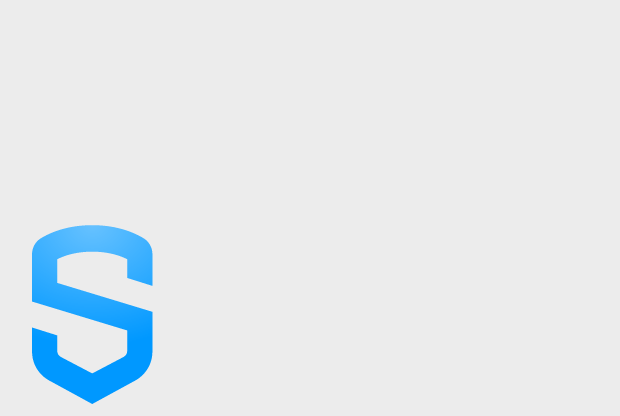
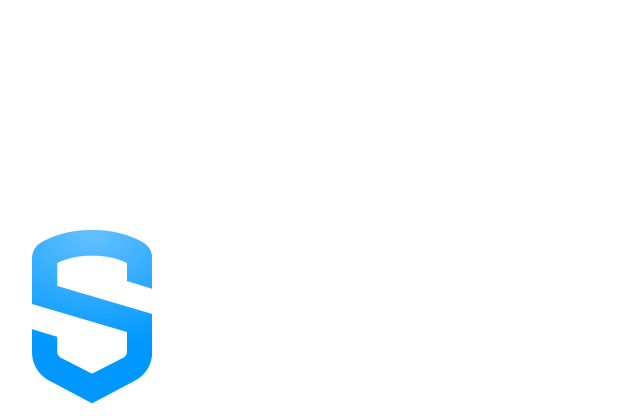
SDA-2016: fix simplified installer issues
- update the background image on macOS installer to support dark mode
- fix issues with saving window position on welcome screen

diff --git a/src/app/window-handler.ts b/src/app/window-handler.ts
@@ -83,6 +83,7 @@ export class WindowHandler {
     public isCustomTitleBar: boolean;
     public isWebPageLoading: boolean = true;
     public screenShareIndicatorFrameUtil: string;
+    public shouldShowWelcomeScreen: boolean = false;
 
     private readonly contextIsolation: boolean;
     private readonly backgroundThrottling: boolean;
@@ -93,7 +94,6 @@ export class WindowHandler {
     // Window reference
     private readonly windows: object;
 
-    private shouldShowWelcomeScreen: boolean = false;
     private loadFailError: string | undefined;
     private mainWindow: ICustomBrowserWindow | null = null;
     private aboutAppWindow: Electron.BrowserWindow | null = null;
@@ -164,7 +164,6 @@ export class WindowHandler {
      */
     public async createApplication() {
 
-        await this.updateVersionInfo();
         this.spellchecker = new SpellChecker();
         logger.info(`window-handler: initialized spellchecker module with locale ${this.spellchecker.locale}`);
 
@@ -184,6 +183,22 @@ export class WindowHandler {
             this.windowOpts.resizable = false;
             this.windowOpts.maximizable = false;
             this.windowOpts.fullscreenable = false;
+
+            if (this.config.mainWinPos && this.config.mainWinPos.height) {
+                this.config.mainWinPos.height = DEFAULT_HEIGHT;
+            }
+
+            if (this.config.mainWinPos && this.config.mainWinPos.width) {
+                this.config.mainWinPos.width = DEFAULT_WIDTH;
+            }
+
+            if (this.config.mainWinPos && this.config.mainWinPos.x) {
+                this.config.mainWinPos.x = undefined;
+            }
+
+            if (this.config.mainWinPos && this.config.mainWinPos.y) {
+                this.config.mainWinPos.y = undefined;
+            }
         }
 
         // set window opts with additional config
@@ -250,9 +265,11 @@ export class WindowHandler {
             this.handleWelcomeScreen();
         }
         // loads the main window with url from config/cmd line
-        this.mainWindow.loadURL(this.url);
+        await this.mainWindow.loadURL(this.url);
         // check for build expiry in case of test builds
-        this.checkExpiry(this.mainWindow);
+        await this.checkExpiry(this.mainWindow);
+        // update version info from server
+        this.updateVersionInfo();
         // need this for postMessage origin
         this.mainWindow.origin = this.url;
 
@@ -445,7 +462,7 @@ export class WindowHandler {
         });
 
         ipcMain.on('set-pod-url', async (_event, newPodUrl: string) => {
-            await config.updateUserConfig({url: newPodUrl, mainWinPos: { ...this.mainWindow!.getPosition(), ...{ height: 900, width: 900 } } });
+            await config.updateUserConfig({url: newPodUrl});
             app.relaunch();
             app.exit();
         });

diff --git a/src/app/version-handler.ts b/src/app/version-handler.ts
@@ -83,6 +83,11 @@ class VersionHandler {
 
             const hostname = nodeURL.parse(this.mainUrl).hostname;
             const protocol = nodeURL.parse(this.mainUrl).protocol;
+
+            if (protocol && protocol.startsWith('file')) {
+                return;
+            }
+
             const versionApiPath = '/webcontroller/HealthCheck/version/advanced';
 
             const url = `${protocol}//${hostname}${versionApiPath}`;

diff --git a/src/app/window-actions.ts b/src/app/window-actions.ts
@@ -223,6 +223,10 @@ const setSpecificAlwaysOnTop = () => {
  * @param window {BrowserWindow}
  */
 export const monitorWindowActions = (window: BrowserWindow): void => {
+    if (windowHandler.shouldShowWelcomeScreen) {
+        logger.info(`Not saving window position as we are showing the welcome window!`);
+        return;
+    }
     if (!window || window.isDestroyed()) {
         return;
     }
